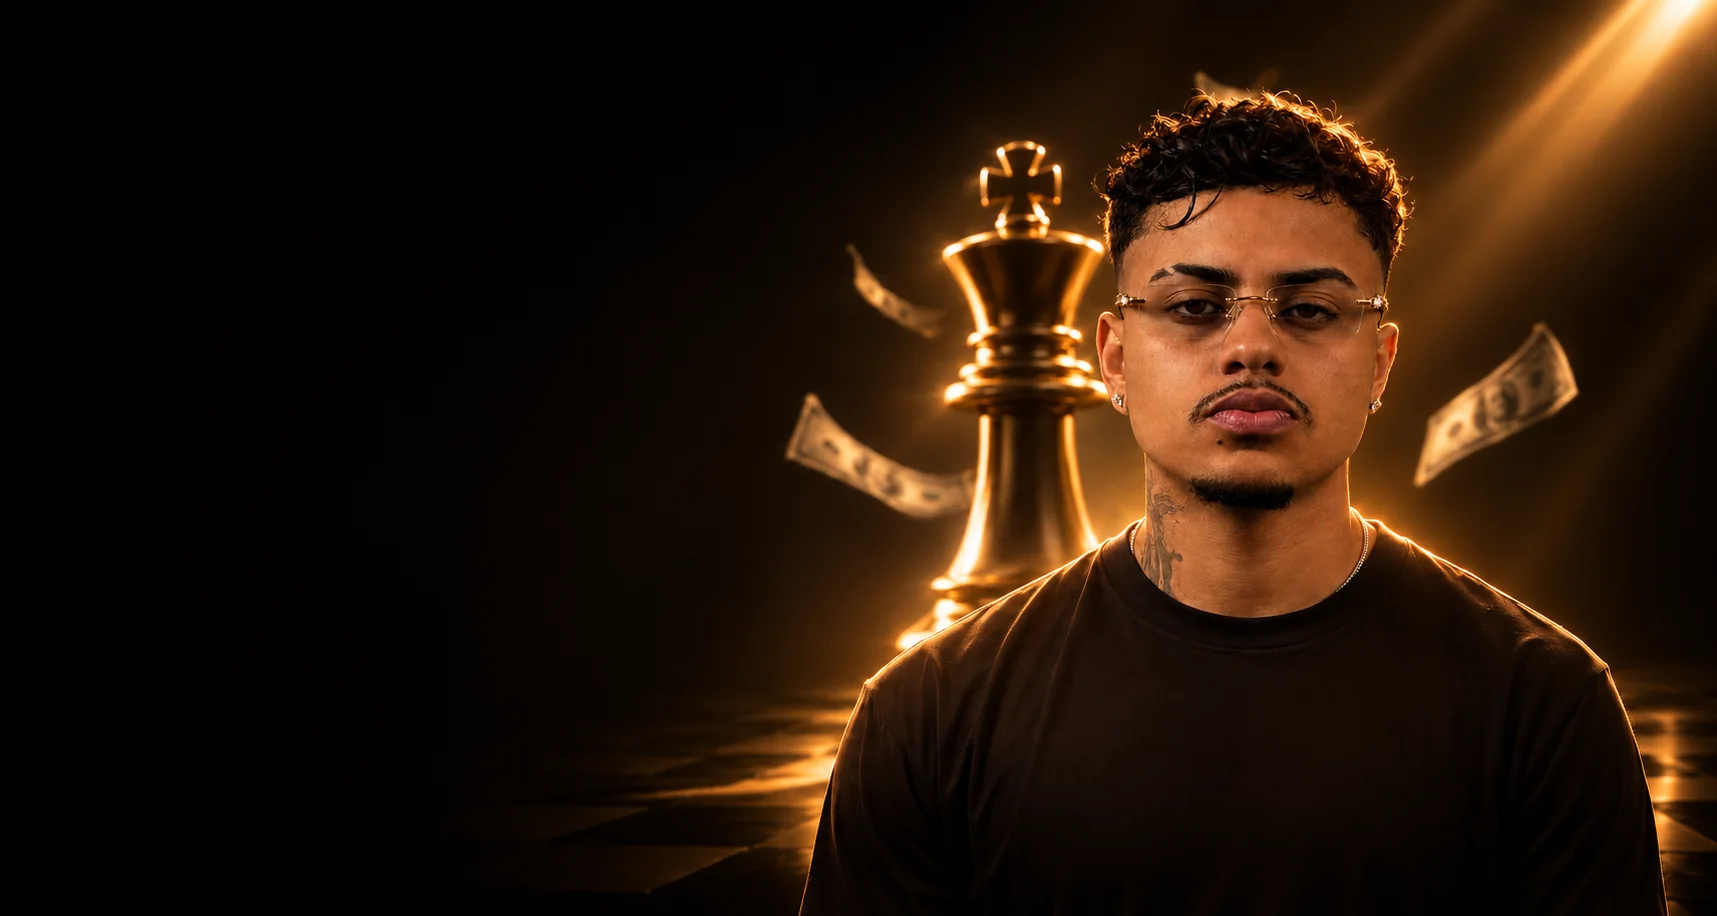
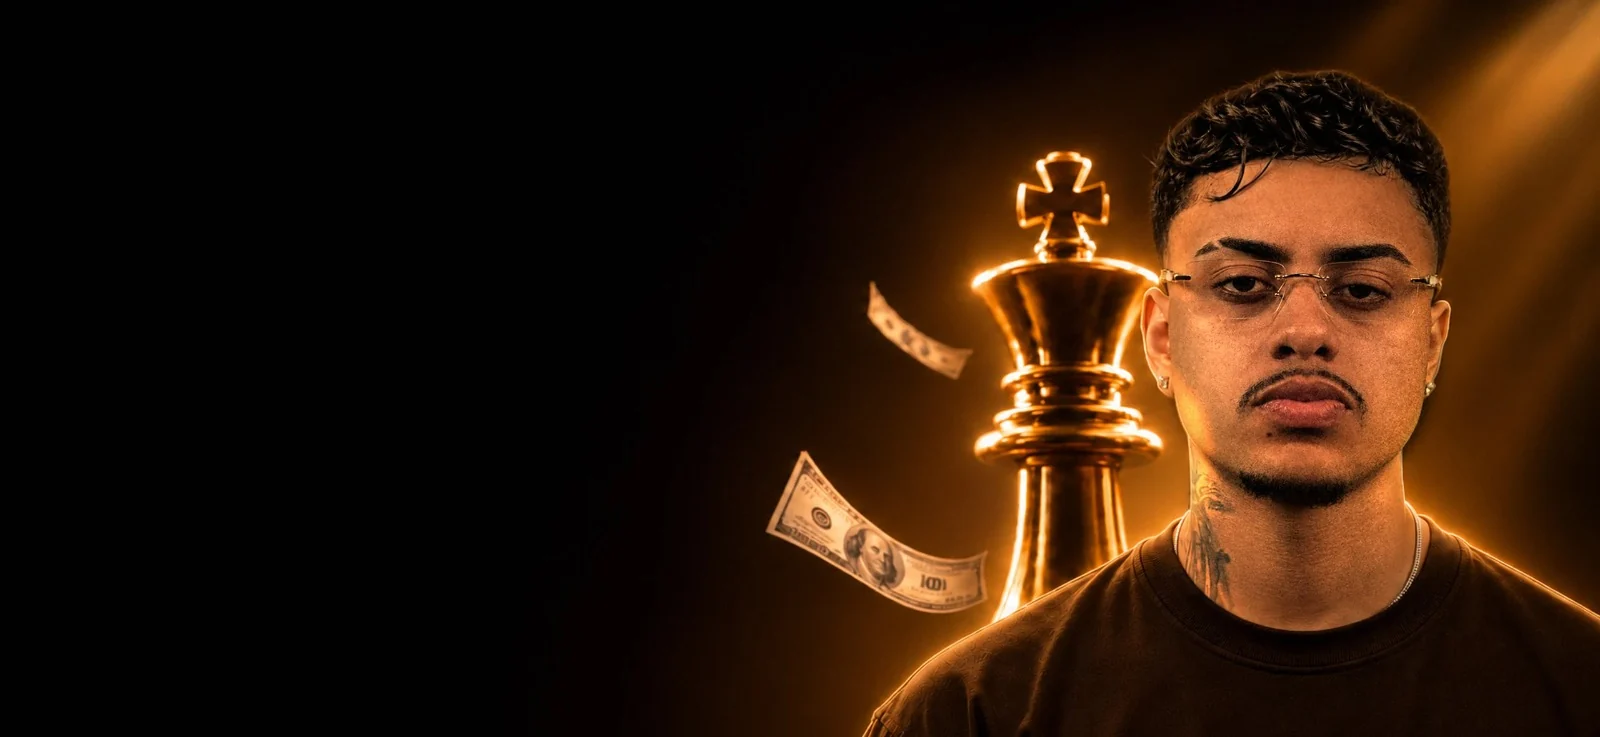
Nova foto da hero (desktop e recorte mobile)
Claude-Session: https://claude.ai/code/session_01BLTcZpwwpWmSLn86UuK6mC

diff --git a/assets/site.css b/assets/site.css
@@ -101,14 +101,14 @@ section{position:relative}
 }
 /* A foto fica ancorada à direita, sempre inteira (sem cortes laterais) */
 /* Foto ancorada no canto inferior direito, sempre inteira e ocupando ~metade da tela */
-.hero__bg{position:absolute;bottom:0;right:0;height:var(--H);width:calc(var(--H) * 1.8745);pointer-events:none;
+.hero__bg{position:absolute;bottom:0;right:0;height:var(--H);width:calc(var(--H) * 2.171);pointer-events:none;
   background:url("hero-desktop.webp") center / cover no-repeat;
   -webkit-mask-image:linear-gradient(180deg,transparent 0%,#000 10%);mask-image:linear-gradient(180deg,transparent 0%,#000 10%)}
 .hero__bg::after{content:"";position:absolute;inset:0;
   background:linear-gradient(90deg,var(--bg) 0%,rgba(7,6,5,.6) 10%,rgba(7,6,5,0) 26%),linear-gradient(0deg,rgba(7,6,5,.5) 0%,rgba(7,6,5,0) 22%)}
 .hero__inner{position:relative;width:min(1680px,100% - 48px);margin-inline:auto;padding-left:clamp(0px,4.2vw,96px)}
 /* O texto termina antes de onde começam os elementos da foto (~45% da imagem) */
-.hero__content{max-width:min(780px,calc(100vw - 1.05 * var(--H) - max(24px,(100vw - 1680px) / 2) - clamp(0px,4.2vw,96px) - 48px))}
+.hero__content{max-width:min(780px,calc(100vw - 1.15 * var(--H) - max(24px,(100vw - 1680px) / 2) - clamp(0px,4.2vw,96px) - 48px))}
 .hero h1{font-size:clamp(1.85rem,2.75vw,3.6rem)}
 .hero__sub{margin-top:12px;font-size:clamp(1.05rem,1.4vw,1.75rem);line-height:1.35;letter-spacing:-.02em;color:#b3aa9c;font-weight:400}
 .hero .btn{--h:58px;margin-top:36px;white-space:nowrap;font-size:clamp(15px,1.1vw,17px);padding:0 clamp(30px,2.6vw,42px)}
